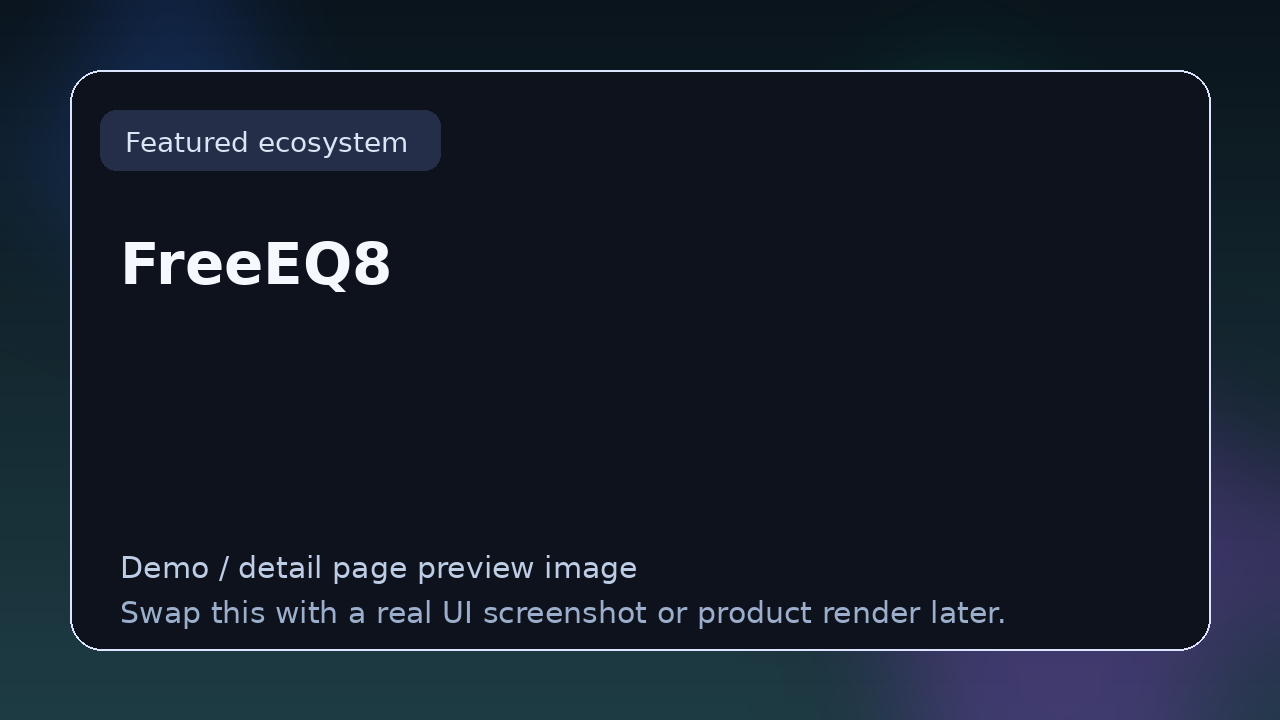
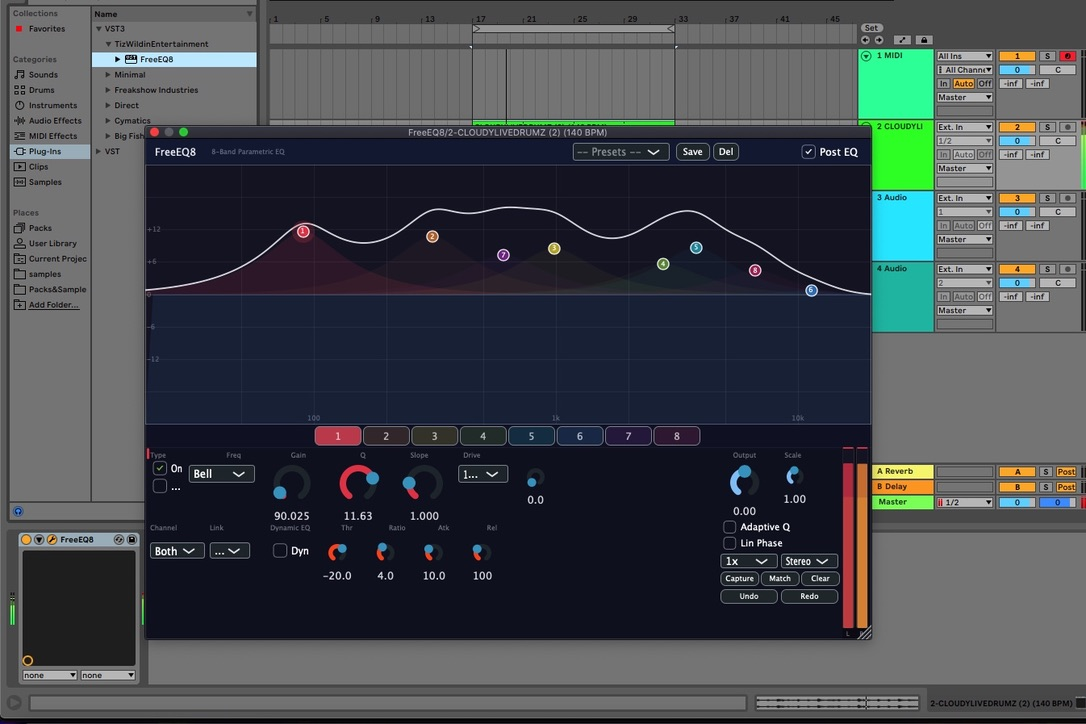
LINK_PAGES: use real plugin screenshots where available and remove broken image references
- FreeEQ8: real Ableton Live screenshot (docs/screenshot.jpg) now used for both
  the Flagship page and the Equalizers category variant.
- AETHER: real GUI preview (AETHER_GUI_PREVIEW.png) embedded on the page.
- All 15 TizWildin plugins that have no real screenshot no longer embed an
  image, so the pages show the plugin metadata immediately instead of a
  broken image icon.
- Placeholder PNGs that were only referenced by those pages have been removed.
- Generator script extended with an optional 'image' / 'image_alt' field so
  pages can be re-rendered with real screenshots as they become available.

diff --git a/scripts/generate_tiz_link_pages.py b/scripts/generate_tiz_link_pages.py
@@ -40,6 +40,8 @@ PLUGINS = [
         "role": "Free open-source 8-band parametric EQ",
         "status": "Production",
         "formats": ["VST3", "AU", "Standalone"],
+        "image": "freeeq8.png",
+        "image_alt": "FreeEQ8 in Ableton Live showing the 8-band parametric EQ, dynamic section, and controls",
         "tagline": "A professional-grade, fully open-source 8-band parametric EQ built with JUCE — linear phase, dynamic EQ, match EQ, per-band drive, M/S processing, oversampling, and a 4096-point real-time spectrum analyzer.",
         "overview": (
             "FreeEQ8 is engineered as the reference equalizer inside the TizWildin ecosystem. It is "
@@ -477,6 +479,8 @@ PLUGINS = [
         "role": "Choir and atmosphere designer",
         "status": "Beta",
         "formats": ["VST3", "AU"],
+        "image": "aether.png",
+        "image_alt": "AETHER Ethereal Choir Atmosphere Designer GUI showing chant, temple, halo, drone, motion, and light/dark controls",
         "tagline": "A choir and atmosphere designer for cinematic sound design — procedural choirs, pads, and evolving textures.",
         "overview": (
             "AETHER is an atmosphere and choir designer built for cinematic, ambient, and game "
@@ -681,11 +685,15 @@ def page_for(plugin: dict) -> str:
     compat = plugin["compat"]
     related = "\n".join(f"- [{label}]({url})" for label, url in plugin["related"])
 
+    # Only embed an image when a real screenshot is available; otherwise omit
+    # the image line so readers don't see a broken icon.
+    image = plugin.get("image")
+    image_alt = plugin.get("image_alt", f"{name} screenshot")
+    image_md = f"![{image_alt}](assets/{image})\n\n" if image else ""
+
     return f"""# {name}
 
-![{name} demo card](assets/{slug}.png)
-
-> **TizWildin Entertainment HUB \u2014 {category}**
+{image_md}> **TizWildin Entertainment HUB \u2014 {category}**
 > **Role:** {role}
 > **Status:** {status}
 > **Formats:** {formats}
@@ -724,11 +732,14 @@ _This page is part of the Awesome Audio Plugins & Dev link-page set. It is the h
 def write_all() -> None:
     for p in PLUGINS:
         (LINK_DIR / f"{p['slug']}.md").write_text(page_for(p), encoding="utf-8")
-    # Duplicate FreeEQ8 page used from the Equalizers section.
-    eq_page = page_for(PLUGINS[0]).replace(
+    # Duplicate FreeEQ8 page used from the Equalizers section; swap the image
+    # reference so it points at the category-specific asset file.
+    eq_page = page_for(PLUGINS[0])
+    eq_page = eq_page.replace(
         "TizWildin Entertainment HUB \u2014 Flagship",
         "TizWildin Entertainment HUB \u2014 Flagship \u00b7 Equalizers",
     )
+    eq_page = eq_page.replace("assets/freeeq8.png", "assets/freeeq8-2.png")
     (LINK_DIR / "freeeq8-2.md").write_text(eq_page, encoding="utf-8")
     print(f"wrote {len(PLUGINS) + 1} pages to {LINK_DIR}")
 

diff --git a/LINK_PAGES/aether.md b/LINK_PAGES/aether.md
@@ -1,6 +1,6 @@
 # AETHER
 
-![AETHER demo card](assets/aether.png)
+![AETHER Ethereal Choir Atmosphere Designer GUI showing chant, temple, halo, drone, motion, and light/dark controls](assets/aether.png)
 
 > **TizWildin Entertainment HUB — Experimental**
 > **Role:** Choir and atmosphere designer

diff --git a/LINK_PAGES/bassmaid.md b/LINK_PAGES/bassmaid.md
@@ -1,7 +1,5 @@
 # BassMaid
 
-![BassMaid demo card](assets/bassmaid.png)
-
 > **TizWildin Entertainment HUB — Maid Suite**
 > **Role:** Low-end processing toolkit
 > **Status:** ✅ Production

diff --git a/LINK_PAGES/chainmaid.md b/LINK_PAGES/chainmaid.md
@@ -1,7 +1,5 @@
 # ChainMaid
 
-![ChainMaid demo card](assets/chainmaid.png)
-
 > **TizWildin Entertainment HUB — Maid Suite**
 > **Role:** Sidechain ducking and pumping
 > **Status:** ✅ Production

diff --git a/LINK_PAGES/freeeq8-2.md b/LINK_PAGES/freeeq8-2.md
@@ -1,6 +1,6 @@
 # FreeEQ8
 
-![FreeEQ8 demo card](assets/freeeq8.png)
+![FreeEQ8 in Ableton Live showing the 8-band parametric EQ, dynamic section, and controls](assets/freeeq8-2.png)
 
 > **TizWildin Entertainment HUB — Flagship · Equalizers**
 > **Role:** Free open-source 8-band parametric EQ

diff --git a/LINK_PAGES/freeeq8.md b/LINK_PAGES/freeeq8.md
@@ -1,6 +1,6 @@
 # FreeEQ8
 
-![FreeEQ8 demo card](assets/freeeq8.png)
+![FreeEQ8 in Ableton Live showing the 8-band parametric EQ, dynamic section, and controls](assets/freeeq8.png)
 
 > **TizWildin Entertainment HUB — Flagship**
 > **Role:** Free open-source 8-band parametric EQ

diff --git a/LINK_PAGES/freesampler.md b/LINK_PAGES/freesampler.md
@@ -1,7 +1,5 @@
 # FreeSampler
 
-![FreeSampler demo card](assets/freesampler.png)
-
 > **TizWildin Entertainment HUB — Experimental**
 > **Role:** Lightweight high-performance sampler
 > **Status:** 🚧 Dev

diff --git a/LINK_PAGES/gluemaid.md b/LINK_PAGES/gluemaid.md
@@ -1,7 +1,5 @@
 # GlueMaid
 
-![GlueMaid demo card](assets/gluemaid.png)
-
 > **TizWildin Entertainment HUB — Maid Suite**
 > **Role:** Mix-bus glue and cohesion
 > **Status:** ✅ Production

diff --git a/LINK_PAGES/instrudio.md b/LINK_PAGES/instrudio.md
@@ -1,7 +1,5 @@
 # Instrudio
 
-![Instrudio demo card](assets/instrudio.png)
-
 > **TizWildin Entertainment HUB — Instruments**
 > **Role:** Ten-instrument cross-platform instrument ecosystem
 > **Status:** ⚠️ Beta

diff --git a/LINK_PAGES/mixmaid.md b/LINK_PAGES/mixmaid.md
@@ -1,7 +1,5 @@
 # MixMaid
 
-![MixMaid demo card](assets/mixmaid.png)
-
 > **TizWildin Entertainment HUB — Maid Suite**
 > **Role:** Spectral balance and mix correction
 > **Status:** ✅ Production

diff --git a/LINK_PAGES/paintmask.md b/LINK_PAGES/paintmask.md
@@ -1,7 +1,5 @@
 # PaintMask
 
-![PaintMask demo card](assets/paintmask.png)
-
 > **TizWildin Entertainment HUB — Experimental**
 > **Role:** Paint-driven audio / MIDI processor
 > **Status:** ⚠️ Beta

diff --git a/LINK_PAGES/pap-forge-audio.md b/LINK_PAGES/pap-forge-audio.md
@@ -1,7 +1,5 @@
 # PAP-Forge-Audio
 
-![PAP-Forge-Audio demo card](assets/pap-forge-audio.png)
-
 > **TizWildin Entertainment HUB — Experimental**
 > **Role:** Procedural Autonomous Plugins runtime
 > **Status:** 🚧 Dev